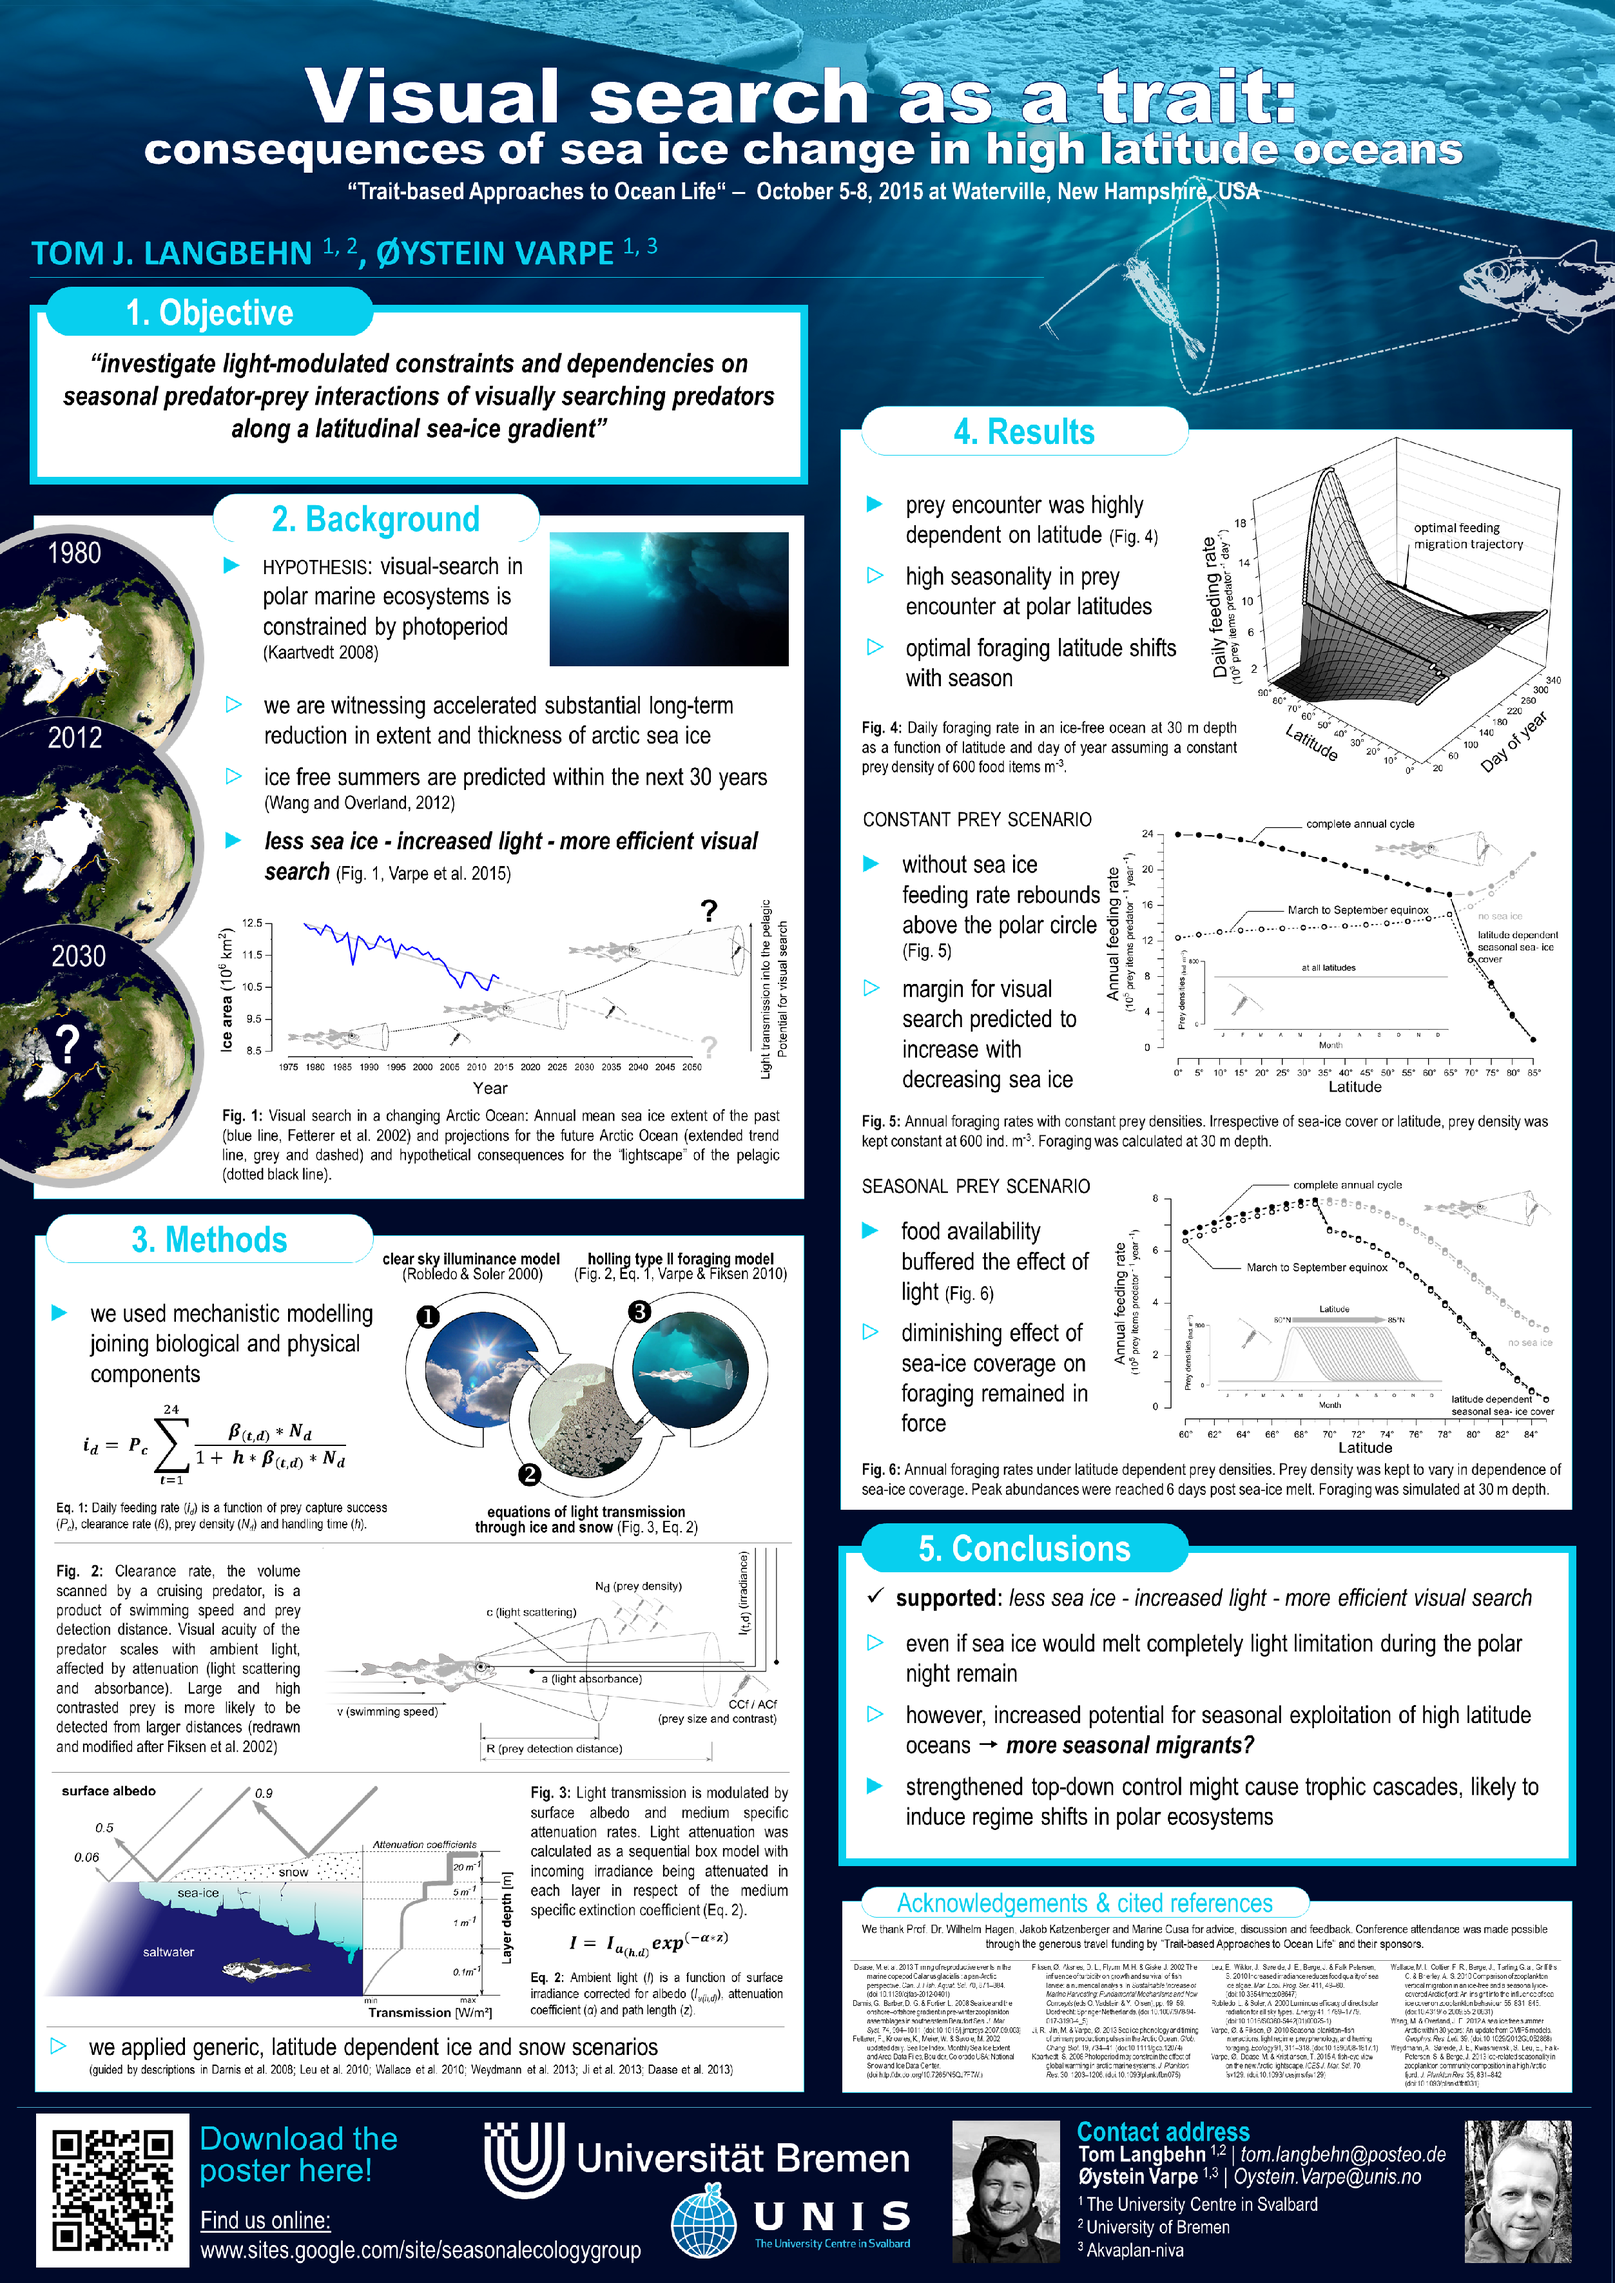
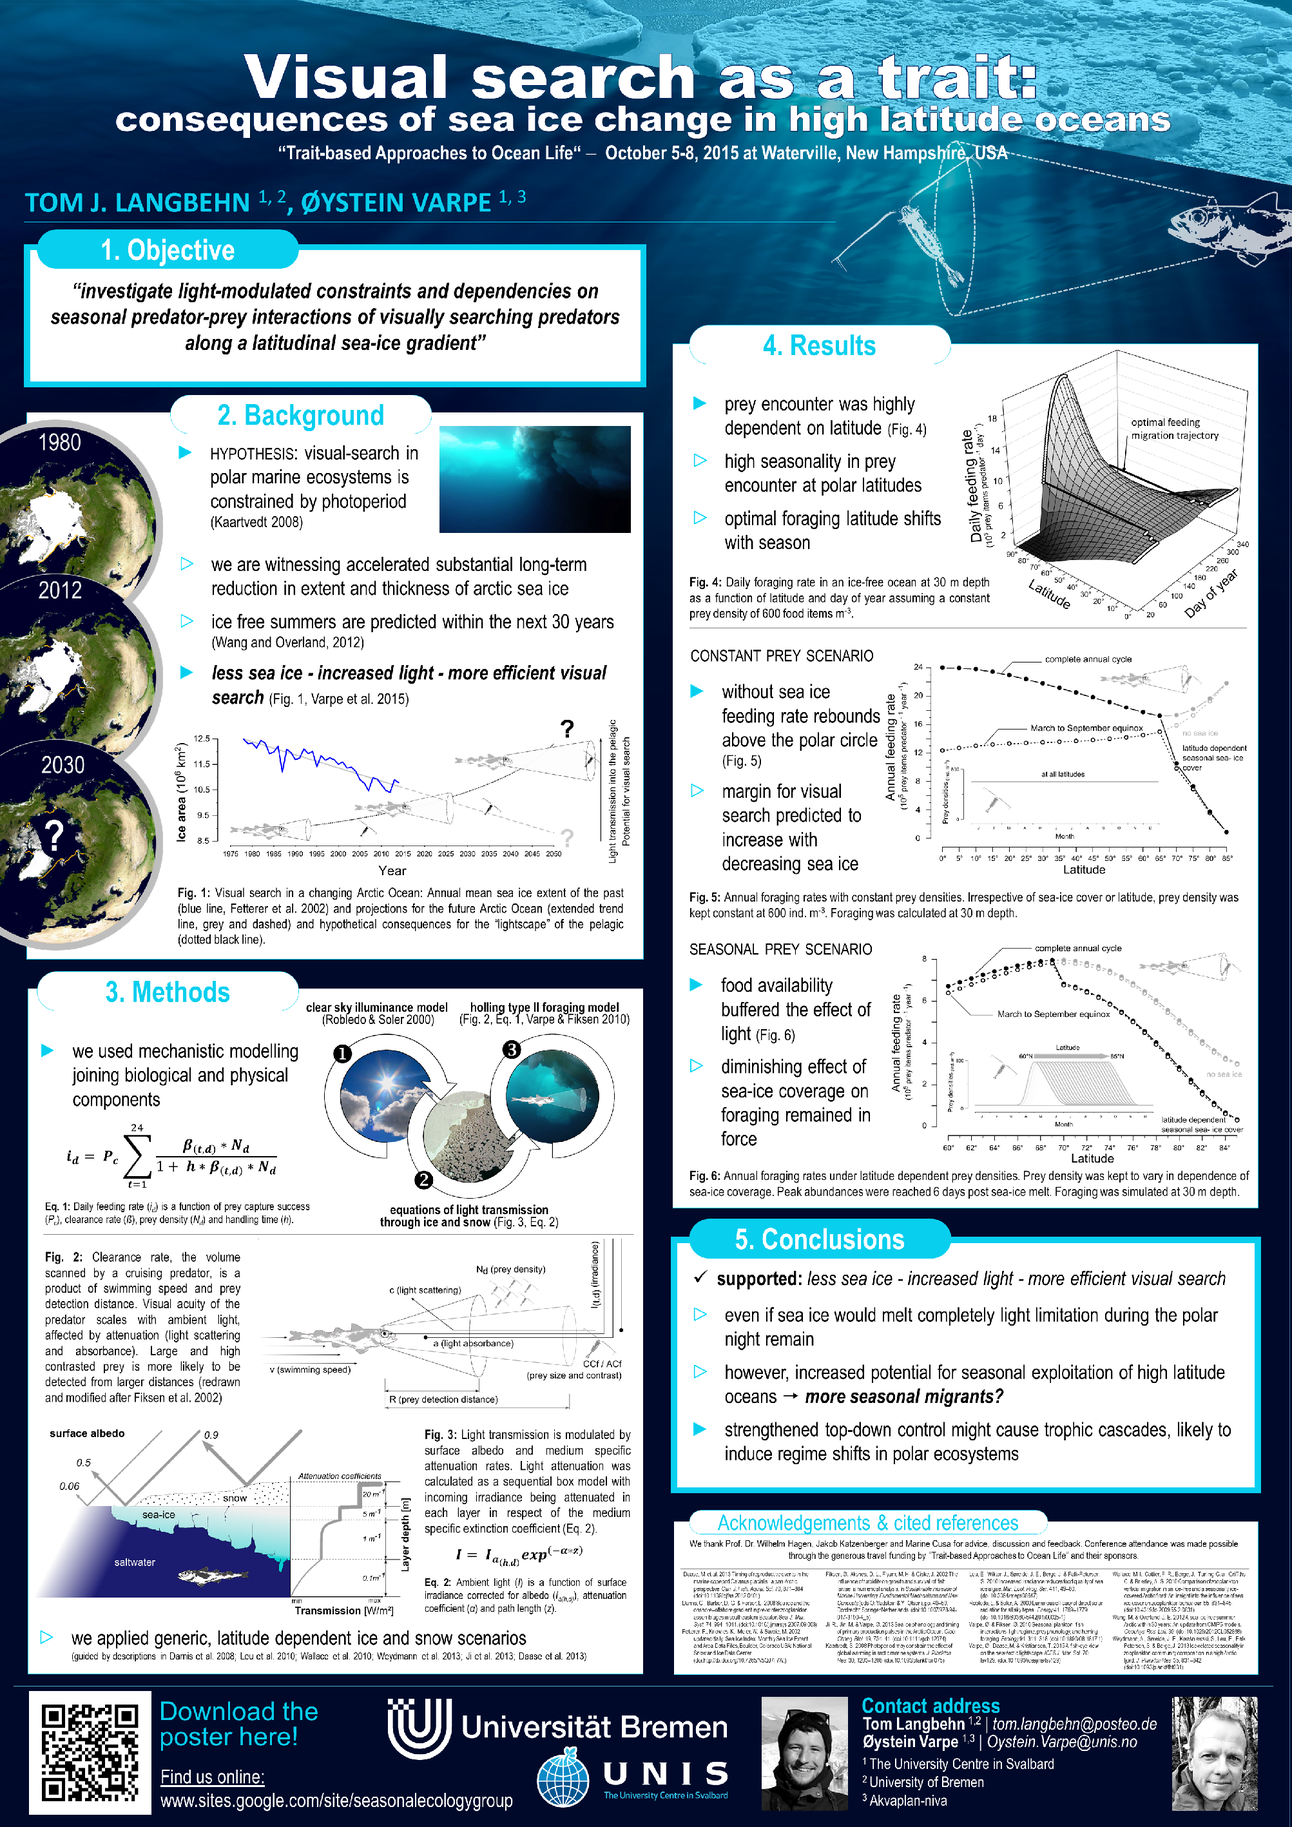
posters 8cm

diff --git a/index.html b/index.html
@@ -281,7 +281,7 @@
                 <div class="row no-padding-top-bottom clearfix">
 
                     <!--Project 1-->
-                    <div class="tertiary-color col-10 wow fadeInUp" data-wow-delay="0.2s">
+                    <div class="tertiary-color col-38 wow fadeInUp" data-wow-delay="0.2s">
                         <div class="section-heading">
                             <h3>UNIVERSITY CENTRE IN SVALBARD</h3>
                             <h2 class="section-title">Sea ice Ecosystems</h2>
@@ -303,7 +303,7 @@
 </div>
 
                     <!--Project 2-->
-                    <div class="tertiary-color col-10 wow fadeInUp box" data-wow-delay="0.6s">
+                    <div class="tertiary-color col-38 wow fadeInUp box" data-wow-delay="0.6s">
                         <div class="section-heading">
                             <h3>UNIVERSITY OF BERGEN</h3>
                             <h2 class="section-title">Mesopelagic Ecosystems</h2>
